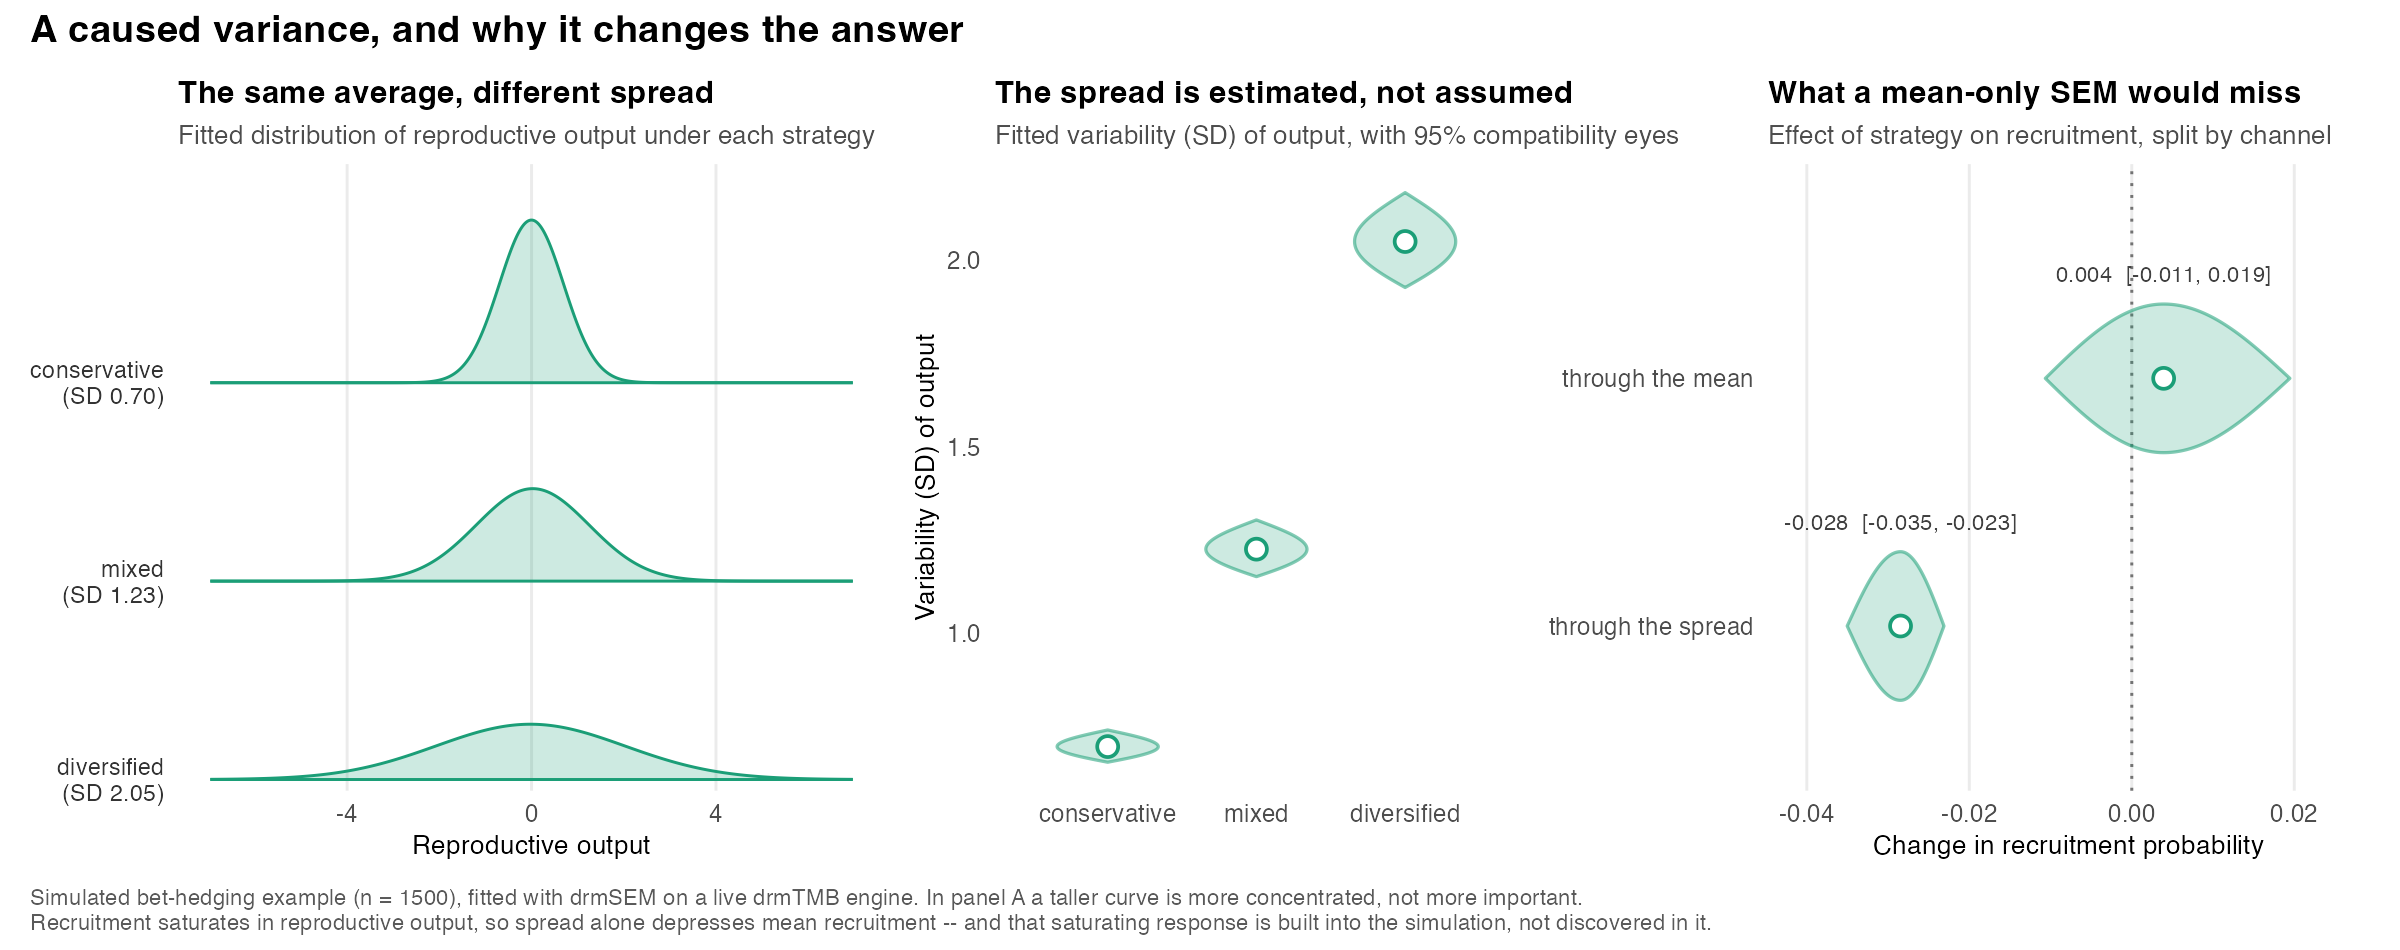
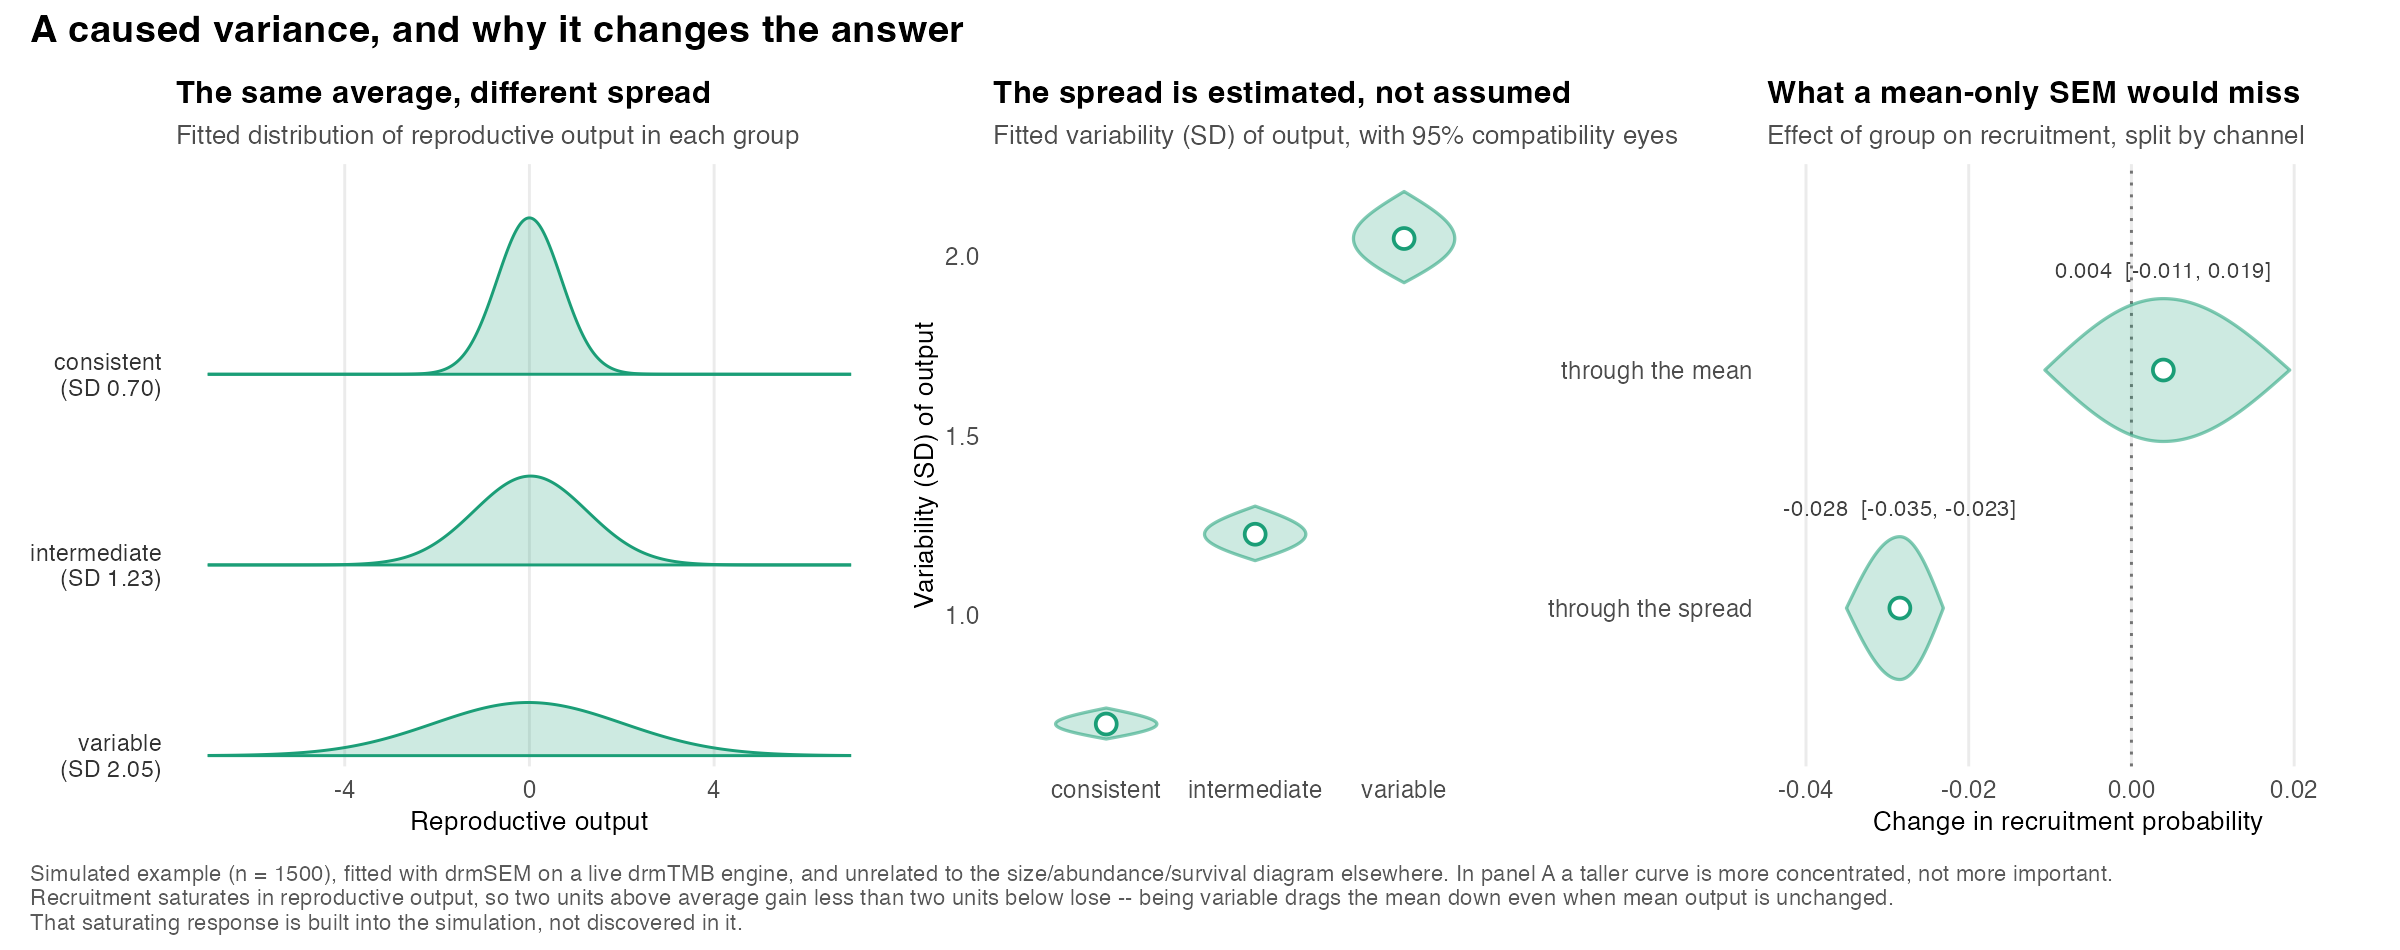
fix(docs): stop calling the variance example "bet-hedging"; mark it as a separate example
Two defects on the live landing page, both mine, both introduced after review closed.

1. WRONG LABEL. The figure was captioned as diversified bet-hedging. In bet-hedging
theory variance is ADAPTIVE -- it pays off in a FLUCTUATING environment via
geometric-mean fitness. This example has a constant environment, where variance is
purely a cost under diminishing returns, so the label predicted the OPPOSITE of what
the figure shows. A reader who knows the term is actively misled. Darwin's review
flagged exactly this (drmSEM is cross-sectional and cannot represent the temporal /
stochastic-environment literature where bet-hedging pays); the warning was recorded
in the script header and then not applied.

Renamed throughout: the example is the cost of variance under diminishing returns,
and the groups are consistent / intermediate / variable rather than conservative /
mixed / diversified -- "diversified" reads as adaptive while being the worst group
here. Level renaming does not touch the RNG: the numbers are byte-identical
(mean channel 0.004 [-0.011, 0.019]; spread channel -0.028 [-0.035, -0.023]).

2. IMPLIED CONTINUITY. The README linking sentence read "The diagram above says which
component each path targets. The figure below shows why that matters" -- which reads
as though the second figure elaborates the first. It does not: the hero DAG is
temp/habitat -> size/abundance/survival, the second is a different system entirely.
[…]

diff --git a/README.md b/README.md
@@ -17,17 +17,24 @@ probability, random-effect scale, and residual correlation.
 
 ![Component-labelled DAG for the canonical size, abundance, and survival example. Black solid arrows target the mean, green dashed arrows target sigma, and orange dotted arrows target zero inflation.](man/figures/drmsem-hero-dag.png)
 
-The diagram above says *which* component each path targets. The figure below
-shows why that matters. Three reproductive strategies have identical mean
-reproductive output and differ only in how variable it is; because recruitment
-saturates, that spread alone moves the outcome. A mean-only SEM has nothing to
-find here — the mean channel is 0.004 [-0.011, 0.019] — while the
-distribution-mediated channel carries the whole effect, -0.028 [-0.035, -0.023].
+The diagram above says *which* component each path targets. **A second and
+completely separate example** — different variables, different system — shows why
+that matters.
+
+Three groups produce the same *average* reproductive output and differ only in
+how variable it is. Recruitment rises with output but saturates, so the good half
+of that variation gains less than the bad half loses: two units above average
+raises recruitment probability by 0.14, while two units below lowers it by 0.38.
+Being variable therefore drags mean recruitment down even though mean output is
+unchanged. A mean-only SEM has nothing to find here — the mean channel is
+0.004 [-0.011, 0.019] — while the distribution-mediated channel carries the whole
+effect, -0.028 [-0.035, -0.023].
+
 The example is simulated, and the saturating response is built into the
 simulation rather than discovered in it; reproduce it with
 `Rscript tools/render-readme-variance.R`.
 
-![Three panels from a simulated bet-hedging example. Left: the fitted distribution of reproductive output under three strategies, drawn as stacked curves that share a centre but grow visibly wider from conservative (SD 0.70) to mixed (SD 1.23) to diversified (SD 2.05). Middle: the fitted variability of output for each strategy, shown as tapered 95% compatibility eyes with hollow point estimates, rising from left to right. Right: the effect of strategy on recruitment split into two channels, showing that the mean channel's interval covers zero while the spread channel's interval lies entirely below zero.](man/figures/drmsem-caused-variance.png)
+![Three panels from a simulated example in which variability, not the average, drives the outcome. Left: the fitted distribution of reproductive output for three groups, drawn as stacked curves that share a centre but grow visibly wider from consistent (SD 0.70) to intermediate (SD 1.23) to variable (SD 2.05). Middle: the fitted variability of output for each group, shown as tapered 95% compatibility eyes with hollow point estimates, rising from left to right. Right: the effect of group on recruitment split into two channels, showing that the mean channel's interval covers zero while the spread channel's interval lies entirely below zero.](man/figures/drmsem-caused-variance.png)
 
 ## Installation
 
